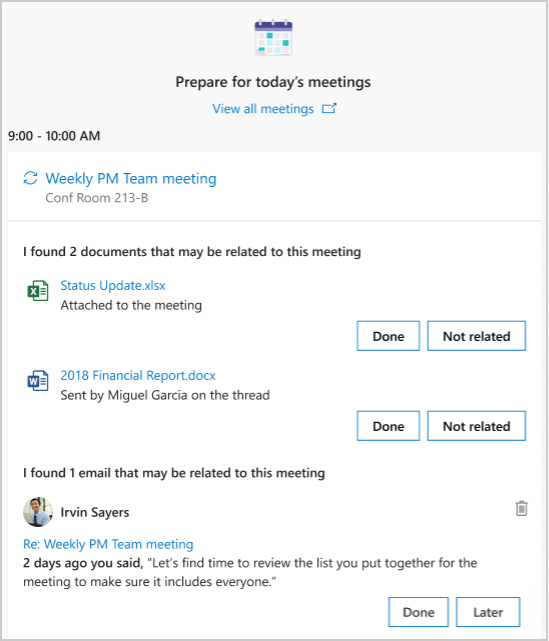
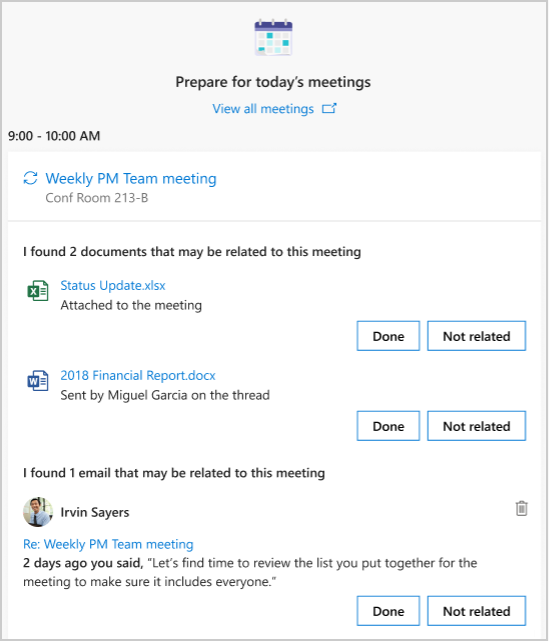
more updates/edits per Shruti

Changed region(s): [[0.6503, 0.9048, 0.9599, 0.9984]]

diff --git a/Briefing/be-meetings.md b/Briefing/be-meetings.md
@@ -16,9 +16,10 @@ In this section of your Briefing email, you’ll see today's first three meeting
 With the [Adaptive email version](be-overview.md#adaptive-or-html-version), you can also do the following to help prepare for today's meetings:
 
 * If you got what you needed or you've already followed up on this item, select **Done**.
-* Or to be reminded about it later, select **Later**.
-* To remove it from this list, select the **Not related**.
-<!--* Selecting **Accept** or **Decline** accepts or declines a meeting invite (even if it is a recurring meeting) and sends the response to the organizer. Selecting **Reply** opens a response to the meeting invite.
+* To remove it from your list, select the **Not related**.
+* If applicable to add to your task list, select **Add to To Do**.
+<!--* To be reminded about it later, select **Later**.
+* Selecting **Accept** or **Decline** accepts or declines a meeting invite (even if it is a recurring meeting) and sends the response to the organizer. Selecting **Reply** opens a response to the meeting invite.
 * Select **Reschedule** to change the meeting day, time, or location.-->
 
 In the following example, you’d select **Weekly PM meeting** to open the meeting details or select the related **Status update** document to open and view it.
